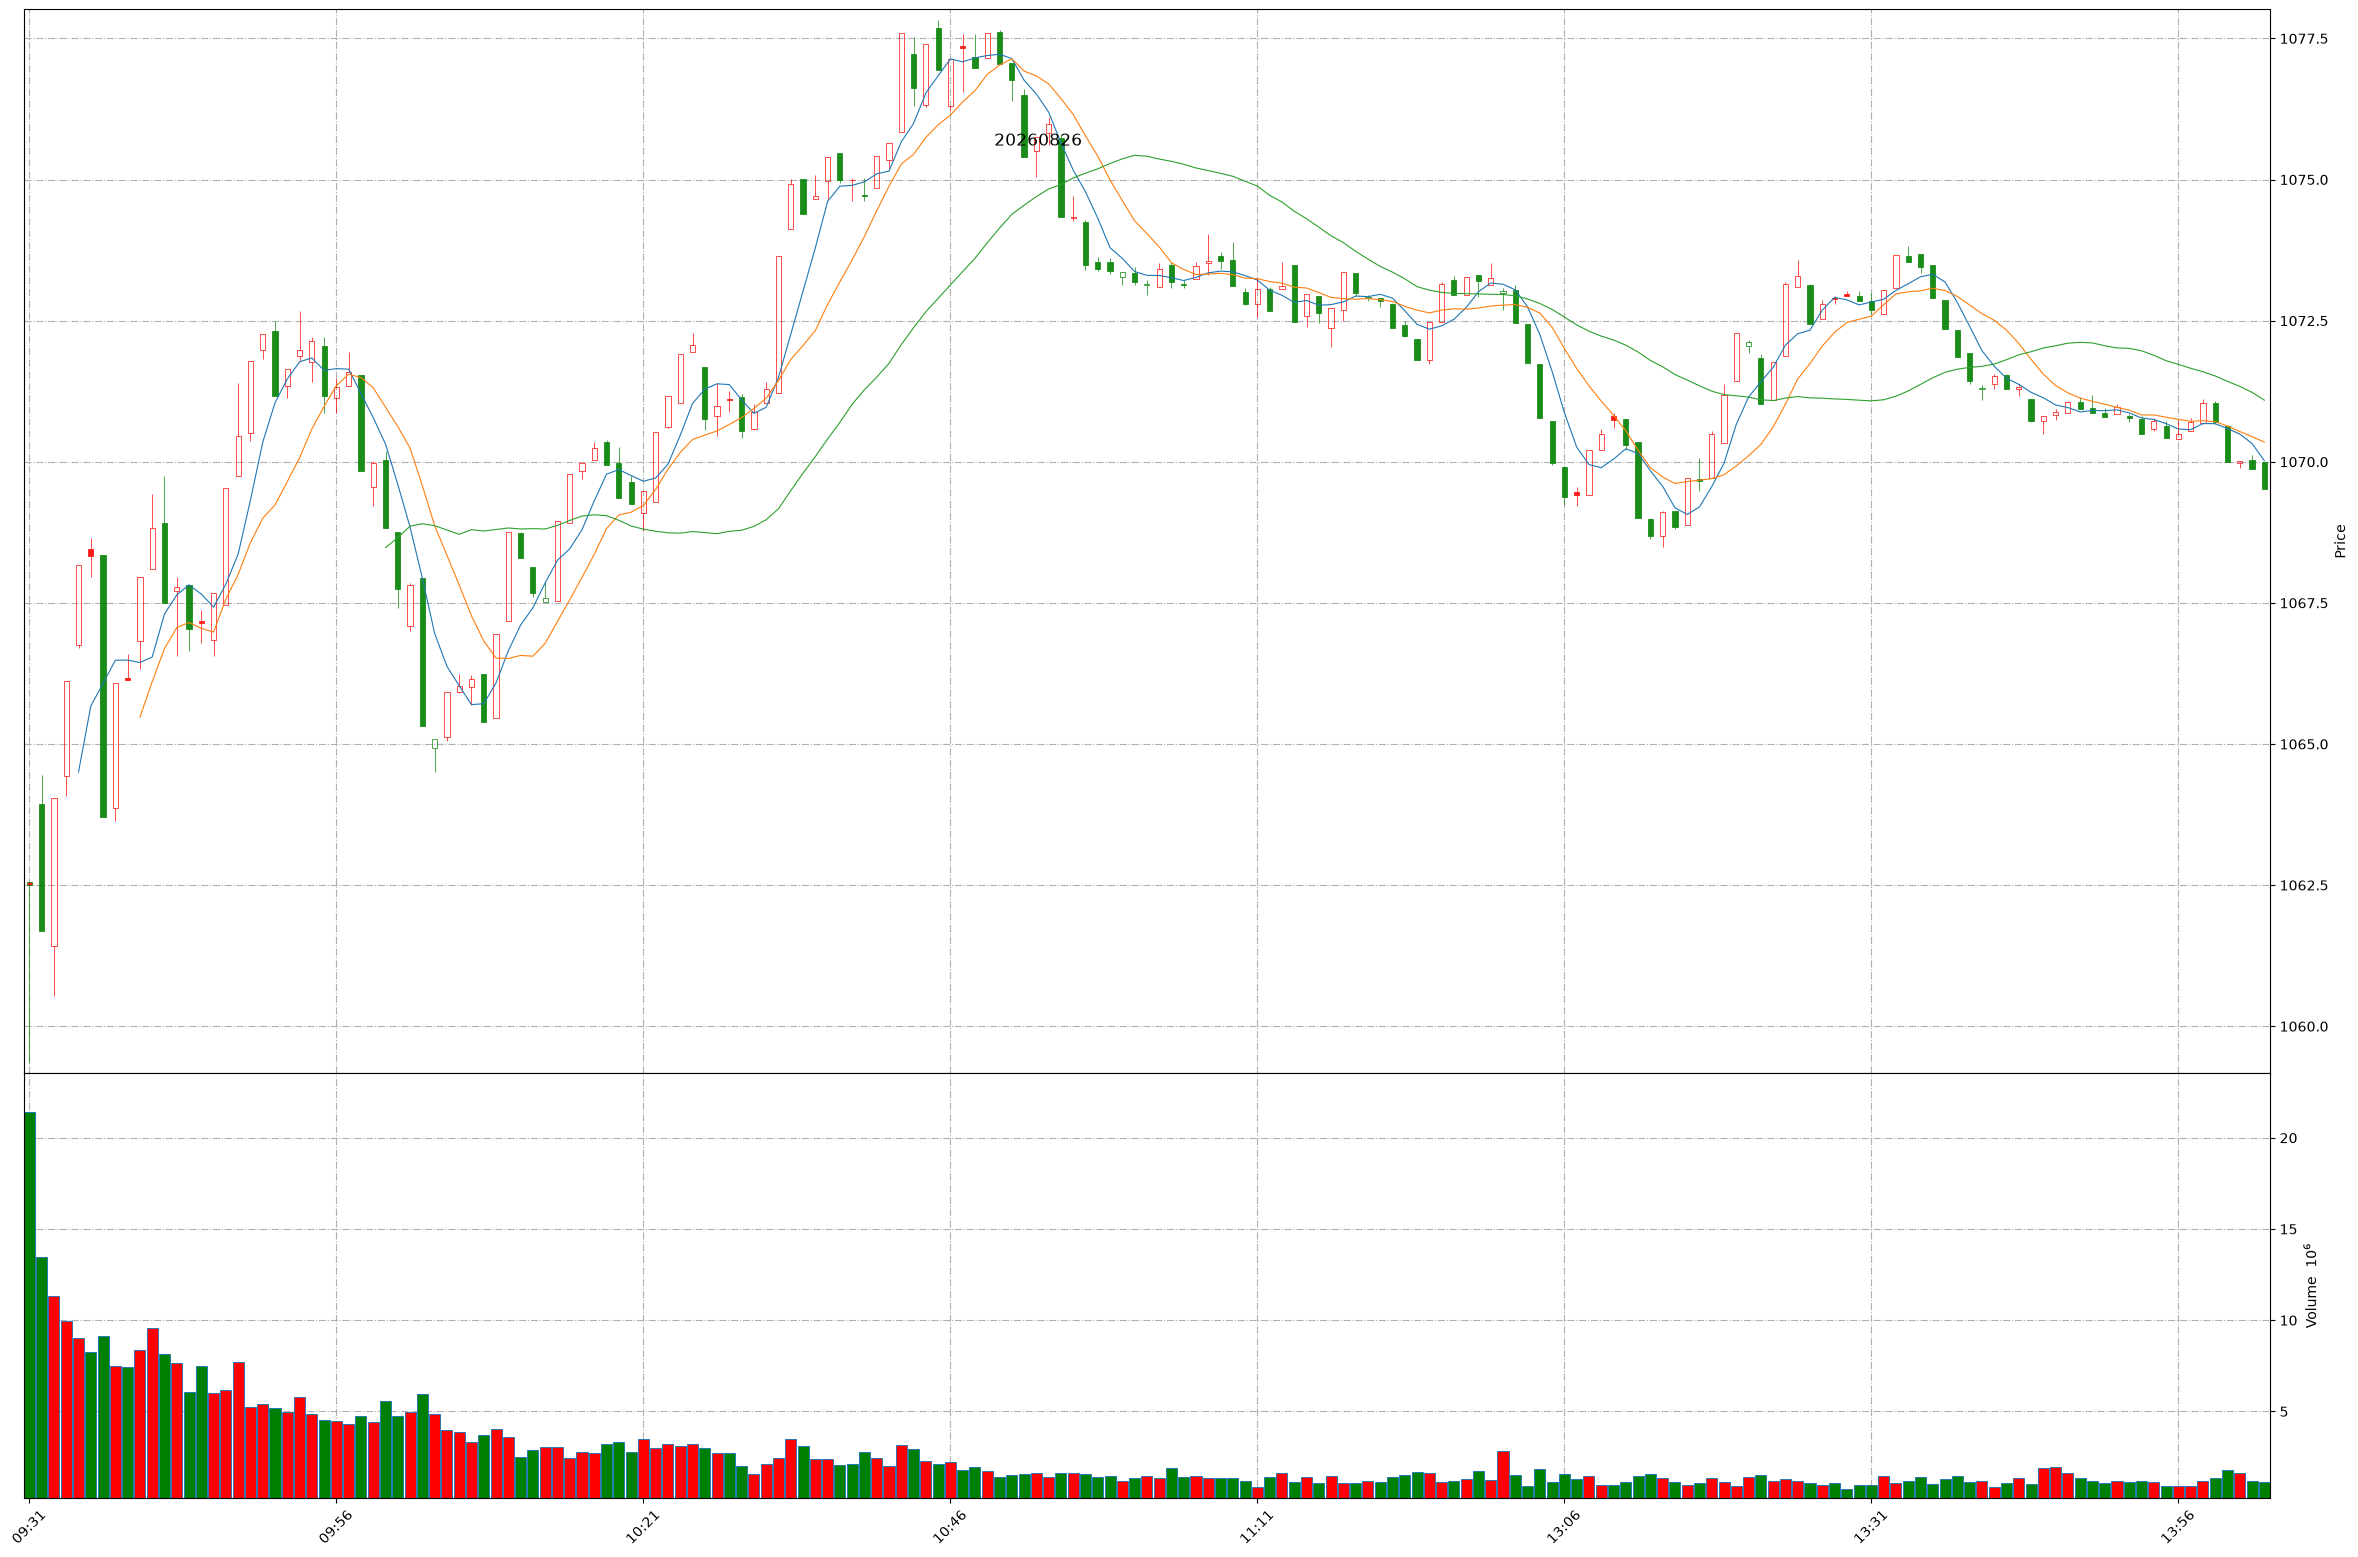
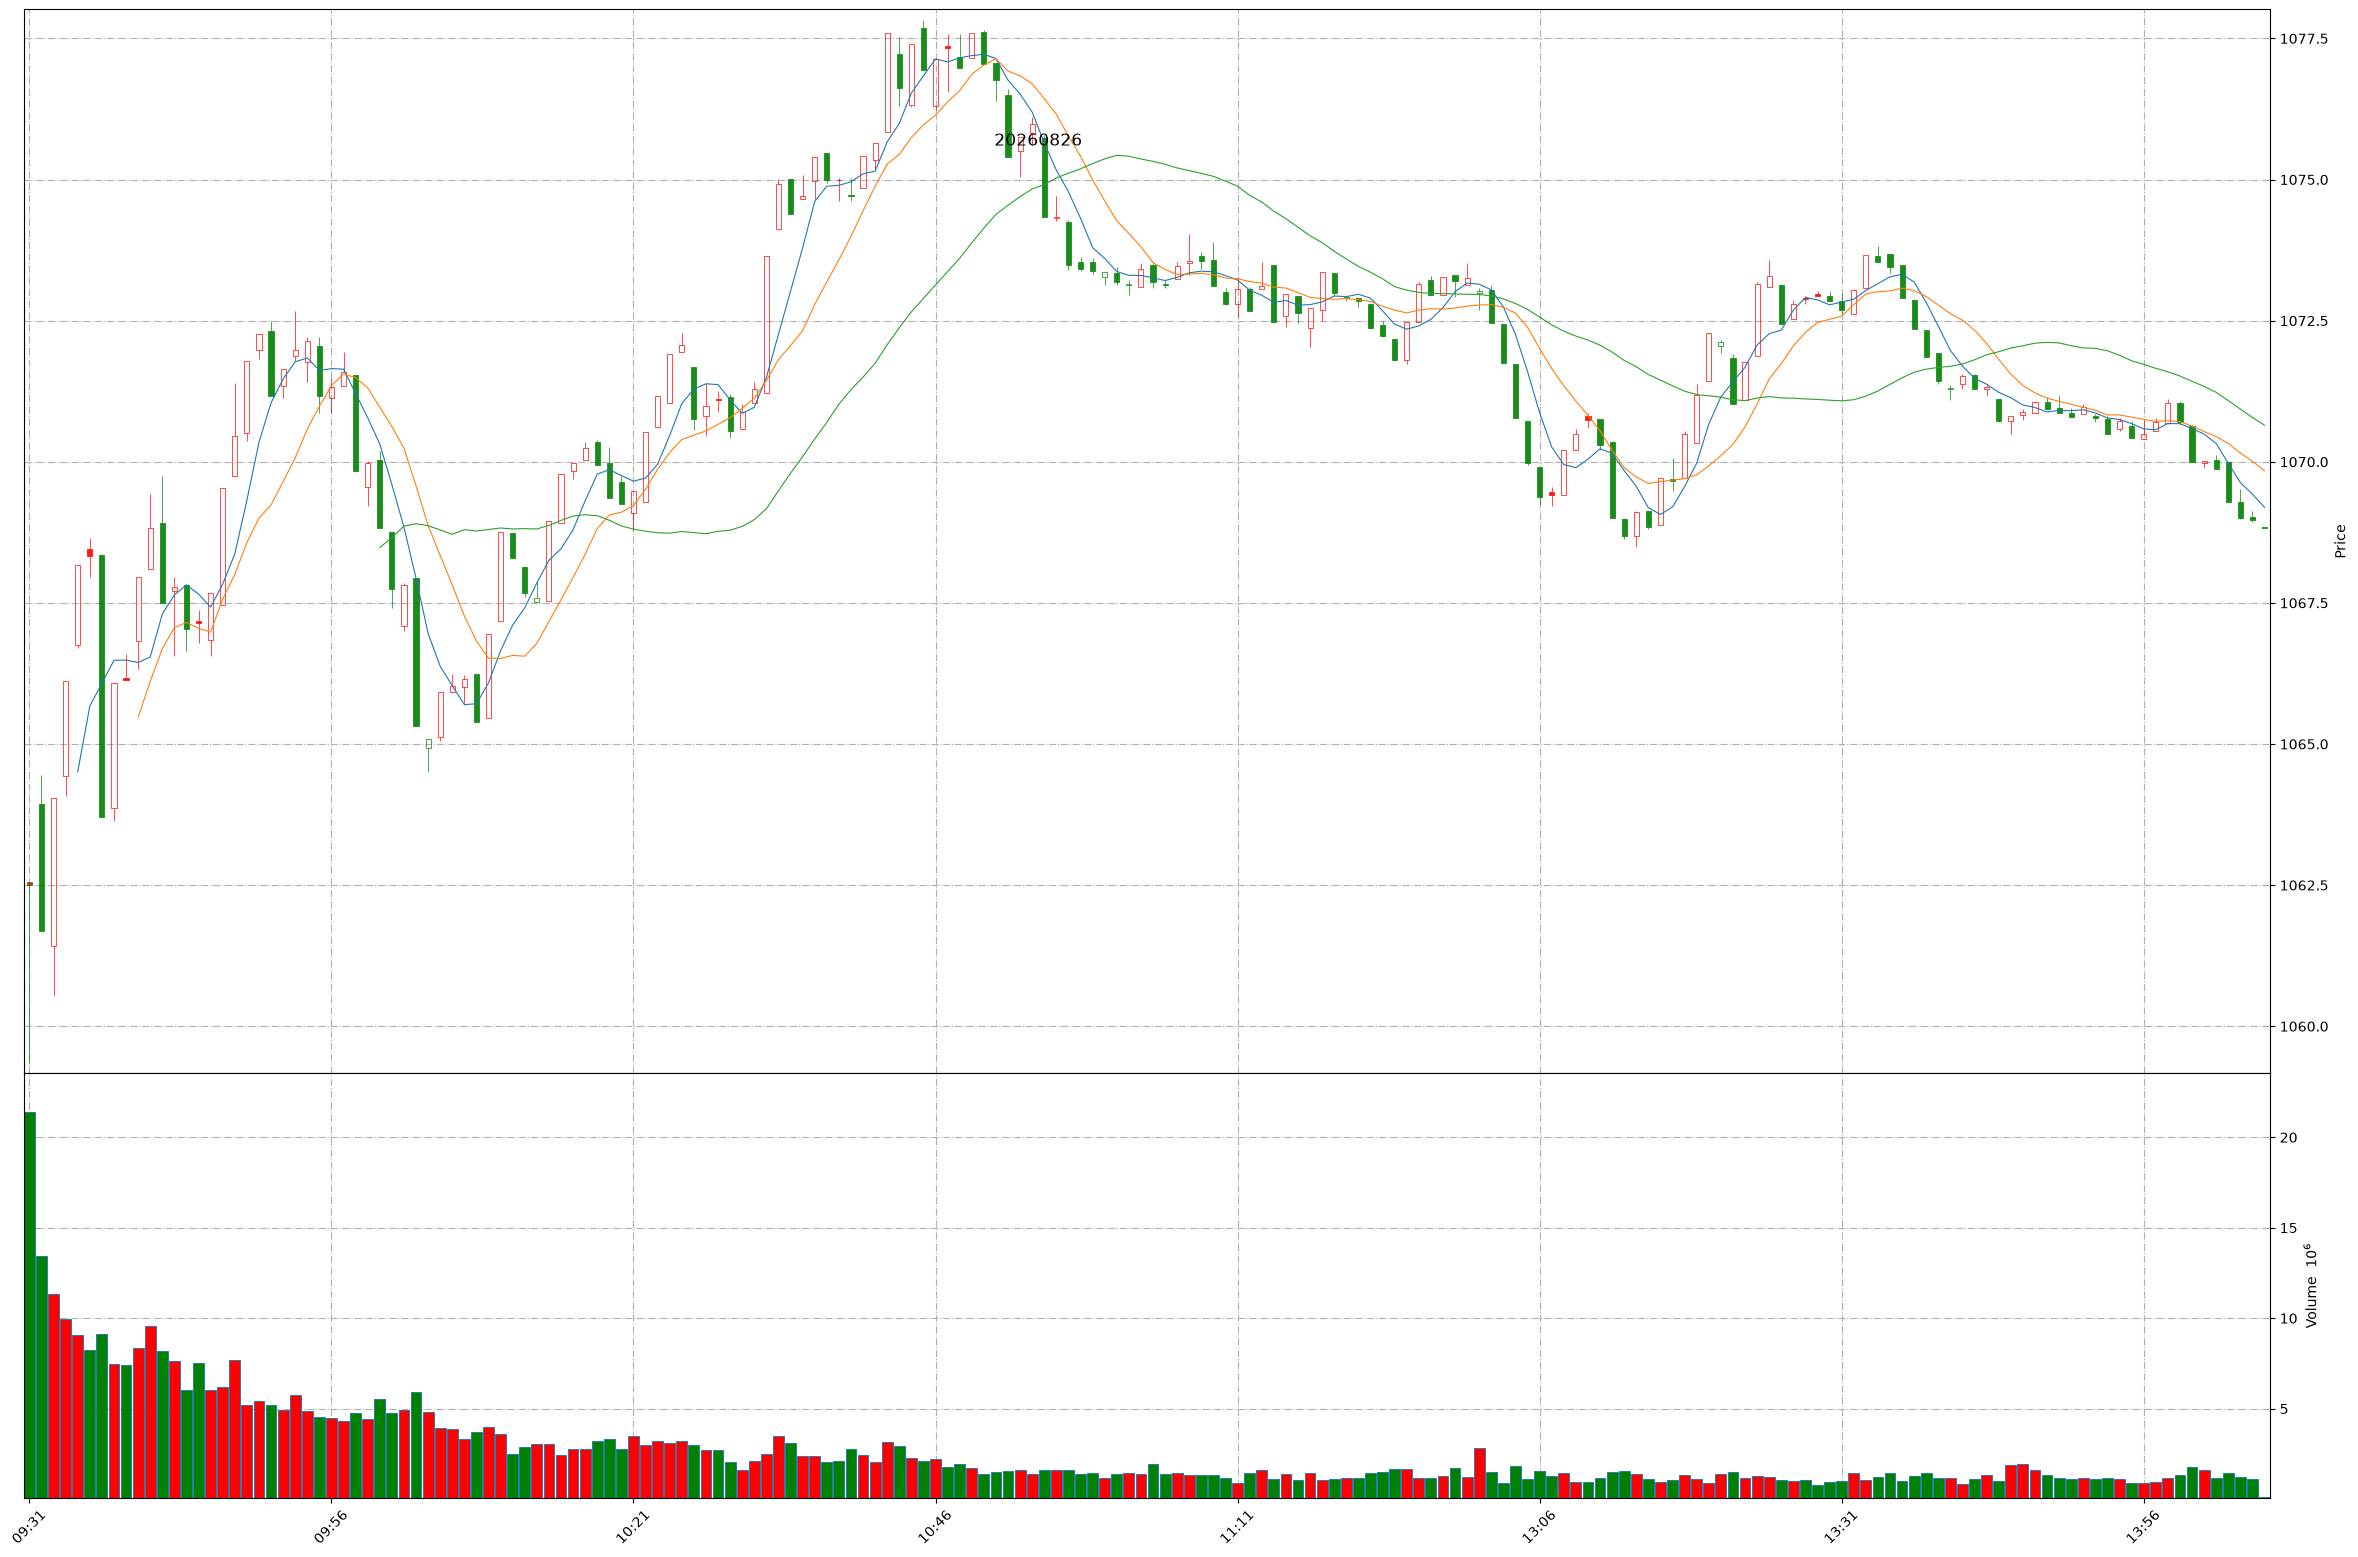
Github action update at 2026-08-26 14:05:33.

Changed region(s): [[0.031, 0.8632, 0.9597, 0.9865], [0.3405, 0.0, 0.9597, 0.3391], [0.031, 0.185, 0.3405, 0.4933]]

diff --git a/README.md b/README.md
@@ -1,11 +1,11 @@
 
 # Daily-A-share-market-quotes 每日 A 股指数（5min 更新）- 20260826
 
-### 上证指数 20260826 14:2
+### 上证指数 20260826 14:5
 ![](./fig/2026/8/20260826-sh000001.png)
 
-### 深证成指 20260826 14:2
+### 深证成指 20260826 14:5
 ![](./fig/2026/8/20260826-sz399001.png)
 
-### 北证50 20260826 14:2
+### 北证50 20260826 14:5
 ![](./fig/2026/8/20260826-bj899050.png)
